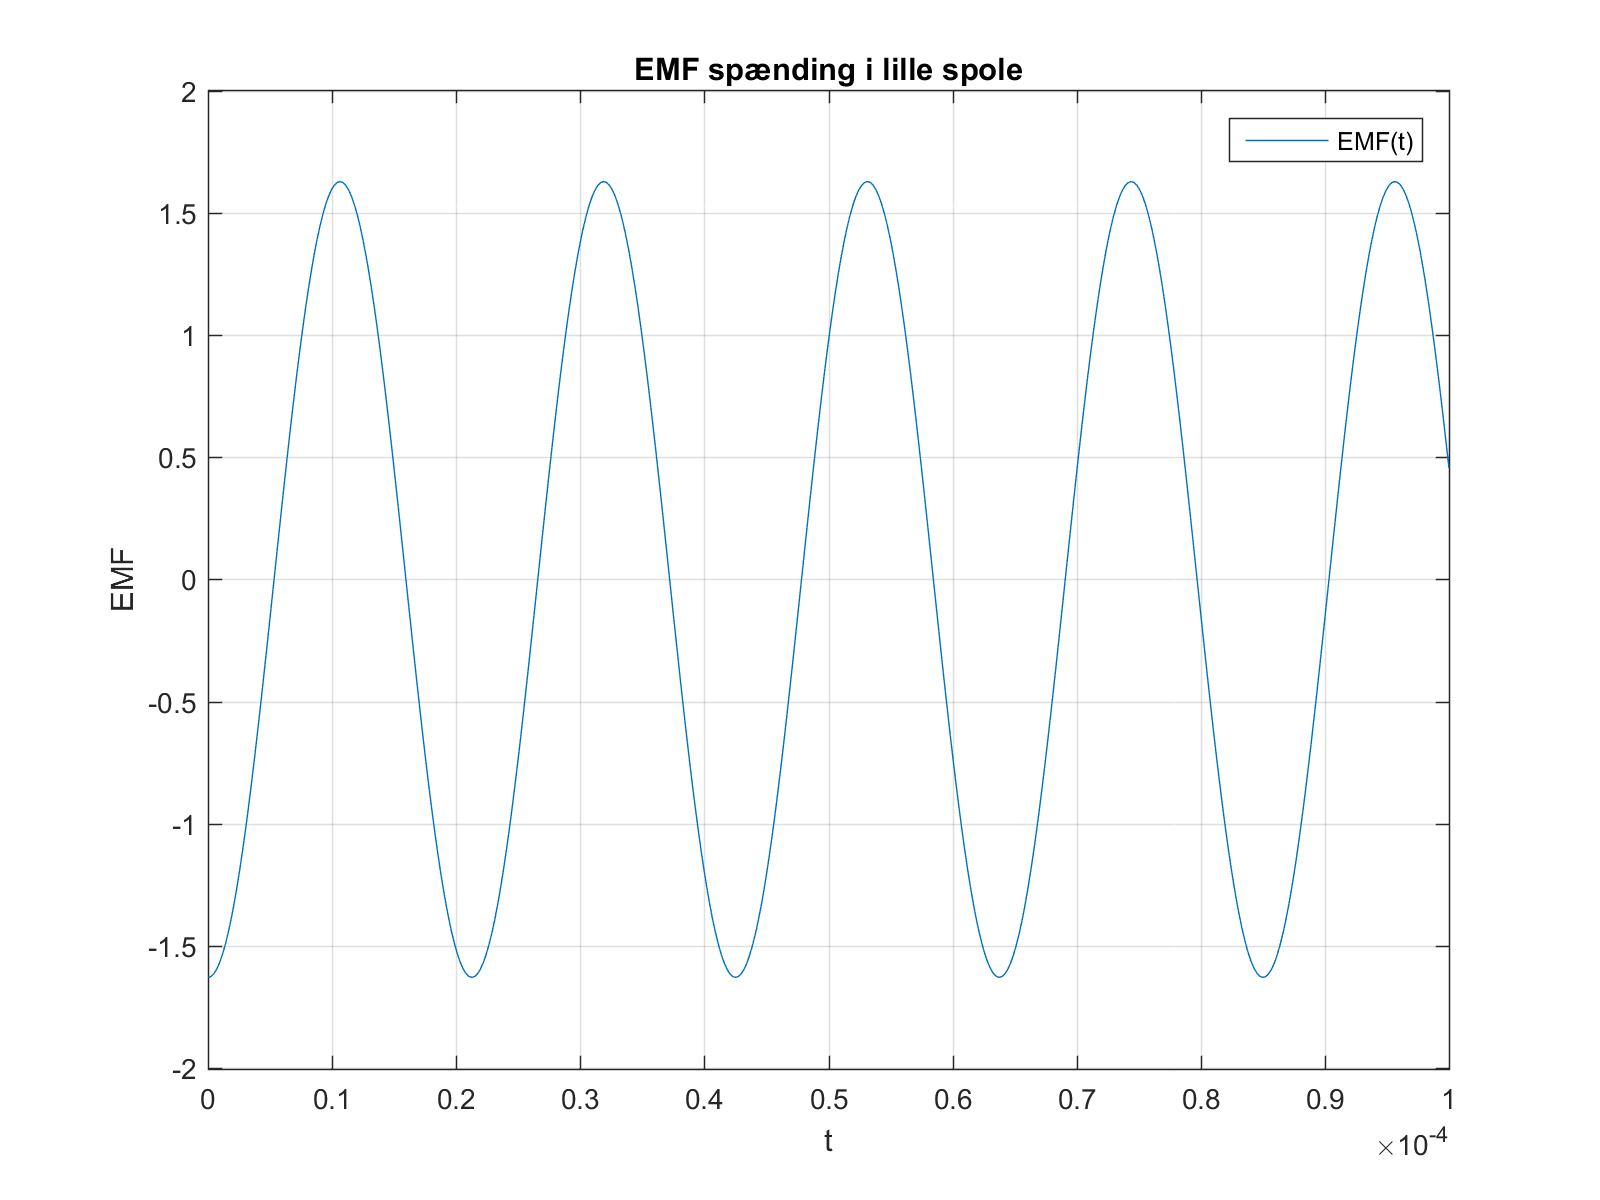
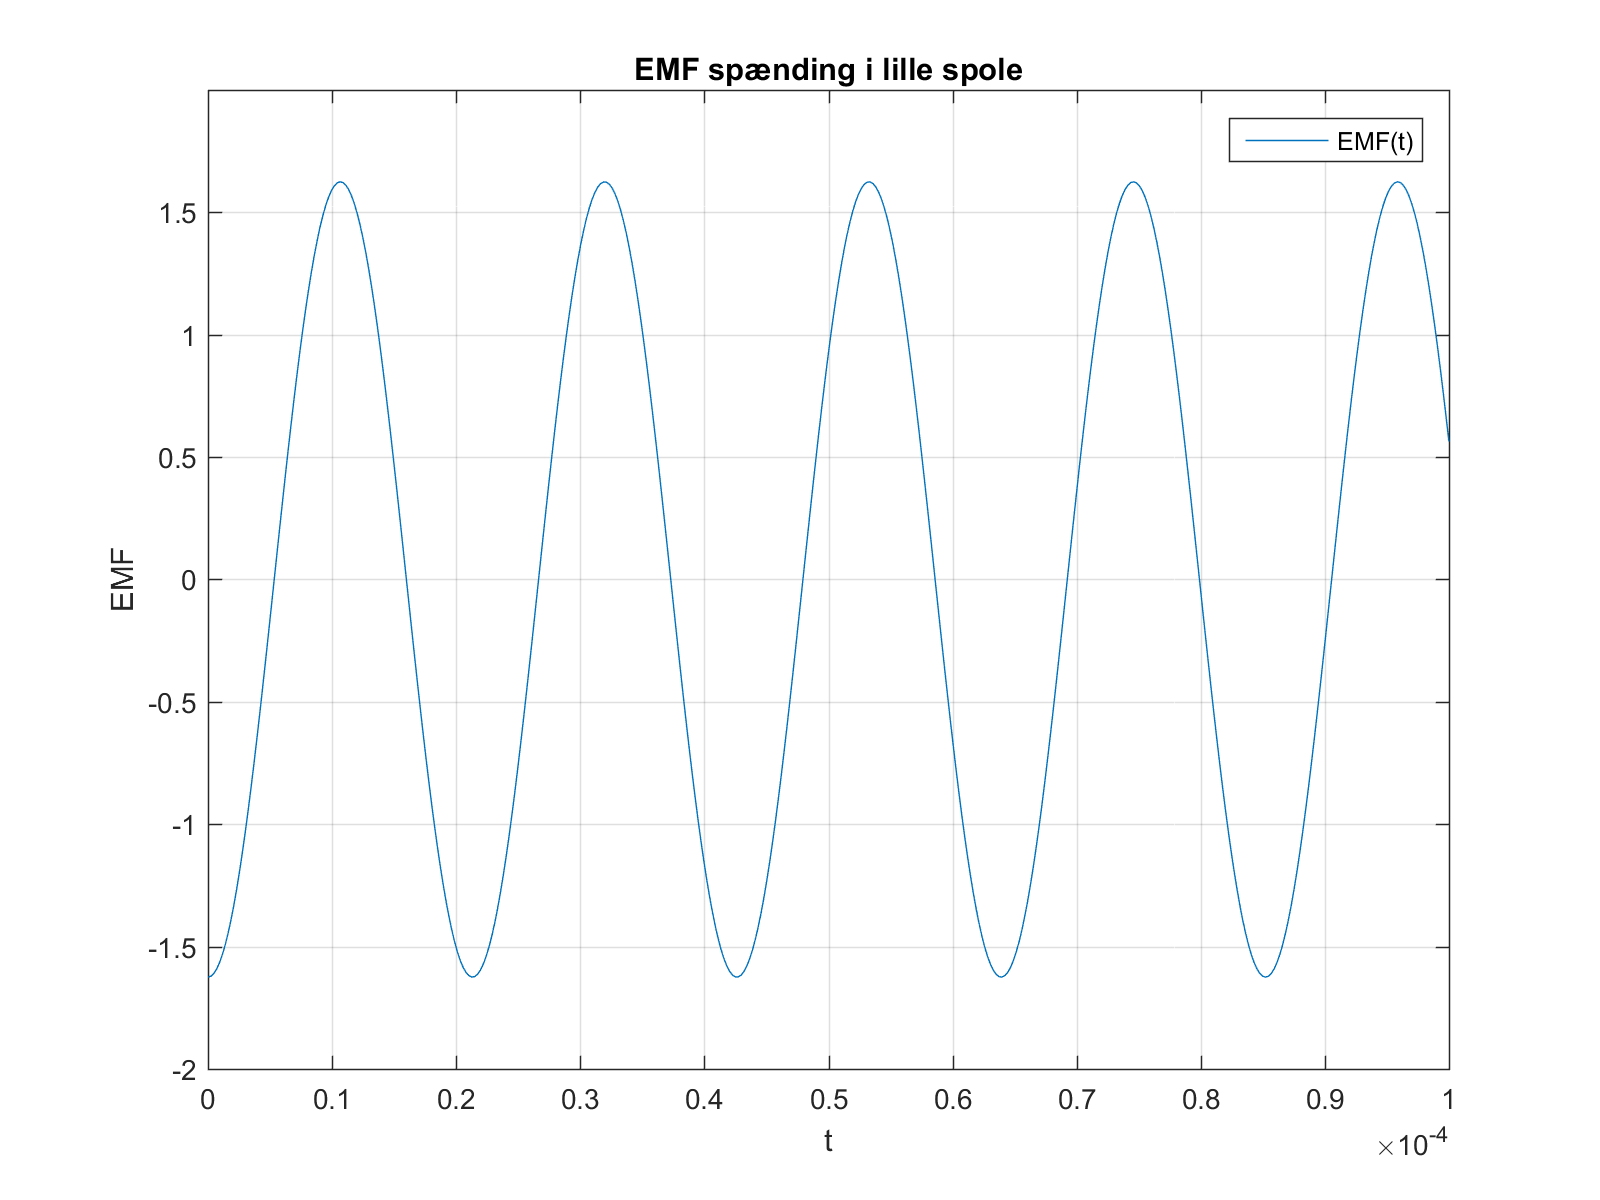
Indsat billeder fra Comsol, samt tekst

diff --git a/section/spoledesign.tex b/section/spoledesign.tex
@@ -1,8 +1,5 @@
 \section{Design af spoler}\label{sec:sec_spole_design}
 
-\subsection{Dimensionering af spoler}
-
-
 For at kunne dimensionere og designe en spole, er det væsentligt at vide hvilket formål spolen skal bruges til. Spolen har mange egenskaber, og i dette projekt vil de blive designet, så de kan bruges som sensorer. Altså en enhed der opfanger eller udsender et analogt signal. 
 
 Som beskrevet tidligere, består systemet af i alt 3 spoler. 1 stor spole, som skal stå for at udsende et signal. Herudover 2 mindre identiske spoler, som skal opfange signalerne. For et illustrativt billede af opsætningen se afsnit **.
@@ -14,7 +11,7 @@ Først vil dimensioneringen af den store spole tages højde for, hvorefter der k
 Den færdige dimensionering skal ende ud i et målbart EMF signal.
 
 Der er som udgangspunkt taget brug af Biot-Savarts lov som ses i ligning \ref{eq:spole_biot_savart}, 
-\subsubsection{Magnetfelt}
+\subsection{Magnetfelt}
 \husk{Kenneth}{Til Simon: Større bogstaver på tegning.}
 \begin{figure}[h!]
 	\centering
@@ -149,7 +146,7 @@ Og et endeligt udtryk:
 	&B(z)= \frac{\mu_0 \: i \: R^2 \: N}{2L}\left(\frac{\frac{L}{2}-z}{\sqrt{(z-\frac{L}{2})^2+R^2}}+\frac{\frac{L}{2}+z}{\sqrt{(z+\frac{L}{2})^2+R^2}}\right)
 \end{align}
 
-\subsubsection{Flux og elektromotorisk kraft}
+\subsection{Flux og elektromotorisk kraft}
 I dette afsnit vil den magnetiske flux blive bestemt.  
 Faraday lavede et eksperiment, og fandt ud af, at et magnetfelt der ændrer sig over tid i en lukket lederkreds, skabte en induceret EMF inde i kredsen.
 Dette lavede han et udtryk for:
@@ -183,11 +180,12 @@ Det er ikke nødvendigt at beregne den store spoles flux, i og med selvinduktans
 	&V = L\frac{di}{dt} \label{eq:ldidt}
 \end{align}
 
-\subsubsection{Strømfortrængning}
+\subsection{Strømfortrængning}\label{Sec_skineff.}
 I forbindelse med valg af trådtykkelse på kobbertråden, som skal vikles rundt om spolerne, er strømfortrængningen i ledningen væsentlig.\\
 Hvis signalet i spolerne havde været et rent DC signal, kunne strømmen antages homogent i hele tværsnitsarealet i kobbertråden.
 Da dette ikke er tilfældet, vil AC signalet "fotrænge" ud i kanten af koppertrådens tværsnitsareal. 
-Der bliver derved skabt et hulrum inden i koppertråden.
+Der bliver derved skabt et hulrum inden i koppertråden. \\
+Herved bliver modstanden i kobbertråden ændret.
 AC modstanden i koppertråden findes ved ligning \ref{eq:R_AC}.
 
 \begin{align}
@@ -228,40 +226,90 @@ Hvor
 \husk{Simon}{indsæt link som reference: http://chemandy.com/calculators/round-wire-ac-resistance-calculator.htm 5/12-16. kl 13}
 
 
-\subsubsection{Udregninger}
-I følgende afsnit vil den teoretiske del blive anvendt, til at finde de værdier, der bliver brugt i spoledesignet.
+\subsection{Resultater}
+I følgende afsnit vil den teoretiske del blive anvendt, til at finde de værdier, der bliver brugt i spoledesignet.\\
+Derudover, vil målinger foretaget med et oscilloskop blive analyseret og teorien eftervist.\\ 
 Tykkelsen på kobbertråden, vælges meget tynd af flere grunde.
-Én af grundene, er pga. plads. spolens længde $L$ er bestemt til $10mm$.
-\husk{Simon}{Henvis til 3d spoledesign}
-Dette gælder både for den store, og de små spoler. 
-En anden grund til tynd kobbertråd, er strømfortrængning, også kaldet skineffekten. 
-\husk{Simon}{henvis til skineffekt}
+Én af grundene, er pga. plads, men som udangspunkt dimensioneret ud fra afsnit \ref{Sec_skineff.}. \\
+Der ønskes en så lav modstand som muligt.  
+Dette gælder både for den store, og de små spoler.\\
+Med hensyn til det fysiske design af spolehuset, henvises til afsnit\husk{Simon}{Indsæt henvisning}
+Et fuldstændigt overblik over alle værdier for spolerne,som er dimensioneret ud fra teorien, findes herunder.
+\begin{align}
+&i=0.05\cdot sin(2pi\cdot 46936\cdot t) \nonumber
+\end{align}
+\begin{align}
+&\mu_0 =4\pi 10^{-7} \nonumber
+\end{align}
+\begin{align}
+&\mu_r =1 \nonumber
+\end{align}
+\begin{align}
+&l = 0.01\m \nonumber
+\end{align}
+\begin{align}
+&N_1=63\nonumber
+\end{align}
+\begin{align}
+&N_2=300\nonumber
+\end{align}
+\begin{align}
+&R_1=0.0175\m\nonumber
+\end{align}
+\begin{align}
+&R_2=0.00855\m\nonumber
+\end{align}
+\begin{align}
+&A_1=9.6211\cdot 10^{-4} \m^2\nonumber
+\end{align}
+\begin{align}
+&A_2=2.2966\cdot 10^{-4} \m^2\nonumber
+\end{align}
+
+\subsubsection{Stor spole}
+
+Den store spole er bestemt ud fra, at den skal fungere som en enhed, der skal sende et signal videre. 
+Signalet i denne, skal derfor være forholdsvis kraftigt, dermed også B feltet.
+\begin{figure}[h!]
+	\centering
+	\includegraphics[width=.3\textwidth]{billeder/B_felt_stor_spole.png}
+	\caption{Magnetfeltet beregnet 13 $\mm$ ud fra stor spole}
+	\label{fig:B_felt_stor_spole}
+\end{figure}
 
 \begin{figure}[h!]
 	\centering
-	\includegraphics[width=.6\textwidth]{billeder/EMF_stor_spole.png}
+	\includegraphics[width=.3\textwidth]{billeder/EMF_stor_spole.png}
 	\caption{EMF spænding i stor spole}
 	\label{fig:EMF_stor_spole}
 \end{figure}
 I figur \ref{fig:EMF_stor_spole}, ses en graf der viser spænding som funktion af tiden i den store spole. se ligning \ref{eq:ldidt}, hvor $i$ er givet ved: 
 
 \begin{align}
-	&i=0.05\cdot sin(2pi\cdot 47048\cdot t)
+&i=0.05\cdot sin(2pi\cdot 46936\cdot t)
 \end{align}
-
-\husk{Simon}{Juster billeder}
-Hvor $0.05$ er peakstrømmen målt i Ampere, og $47048$ er frekvensen i $Hz$.\\
+Frekvensen og peakstrømmen er dimensioneret ud fra afsnit. \husk{Simon}{Ref til Frekv. generator}
+Her ses en induceret spænding med en peak to peak på ca. 6\volt. Denne graf er plottet ud fra ligning
+\subsubsection{Lille spole}
 \begin{figure}[h!]
 	\centering
 	\includegraphics[width=.6\textwidth]{billeder/EMF_lille_spole.png}
 	\caption{EMF spænding i lille spole}
 	\label{fig:EMF_lille_spole}
 \end{figure}
+
+
+
+
+
+\husk{Simon}{Juster billeder}
+Hvor $0.05$ er peakstrømmen målt i Ampere, og $47048$ er frekvensen i $Hz$.\\
+
 For at plotte spændingen overført i den lille spole, bruges ligning \ref{eq:emf_lille_spole}. Plottet af denne ses i figur \ref{fig:EMF_lille_spole}. Her ses ca. en halvering i spænding. Alle data brugt i udregningerne ses i tabel ***
  \husk{Simon}{indsæt tabel over data}
 
  
-\subsubsection{Simluering}
+\subsection{Simluering}
 I dette underafsnit bliver teorien simuleret.
 Dette gøres vha. simuleringsprogrammet Comspol.
 Der vil derudover blive gjort rede og kommenteret på hver figur. 
@@ -269,7 +317,18 @@ Der vil derudover blive gjort rede og kommenteret på hver figur.
 I simuleringen skal der tages højde for, at strømmen $i$ er givet ved et sinussignal, og ikke et firkantsignal, som det er i det virkelige system.
 Da det er komplekst at simulere et firkantsignal i Comsol, vil dette ikke blive gjort. Det kan dog godt forsvares, ved at sammenligne resultaterne med tabel *** \husk{Simon}{indsæt tabel over resultater}
 
-
+\begin{figure}[h!]
+	\centering
+	\includegraphics[width=.8\textwidth]{billeder/Comsol_B_field_begge.png}
+	\caption{Magnetfeltet simuleret 13 $\mm$ ud fra stor spole, i ligeposition}
+	\label{fig:B_Comsol_begge}
+\end{figure}
+\begin{figure}[h!]
+	\centering
+	\includegraphics[width=.8\textwidth]{billeder/Comsol_B_field.png}
+	\caption{Magnetfeltet simuleret 13 $\mm$ ud fra stor spole, ved fuld overlappelse}
+	\label{fig:B_Comsol}
+\end{figure}
 
 
 
